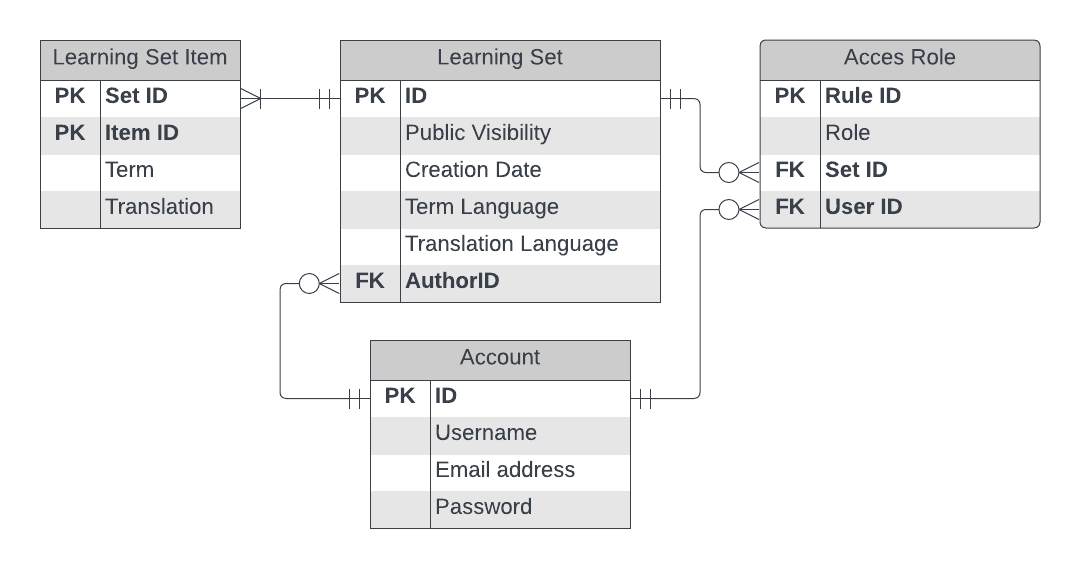
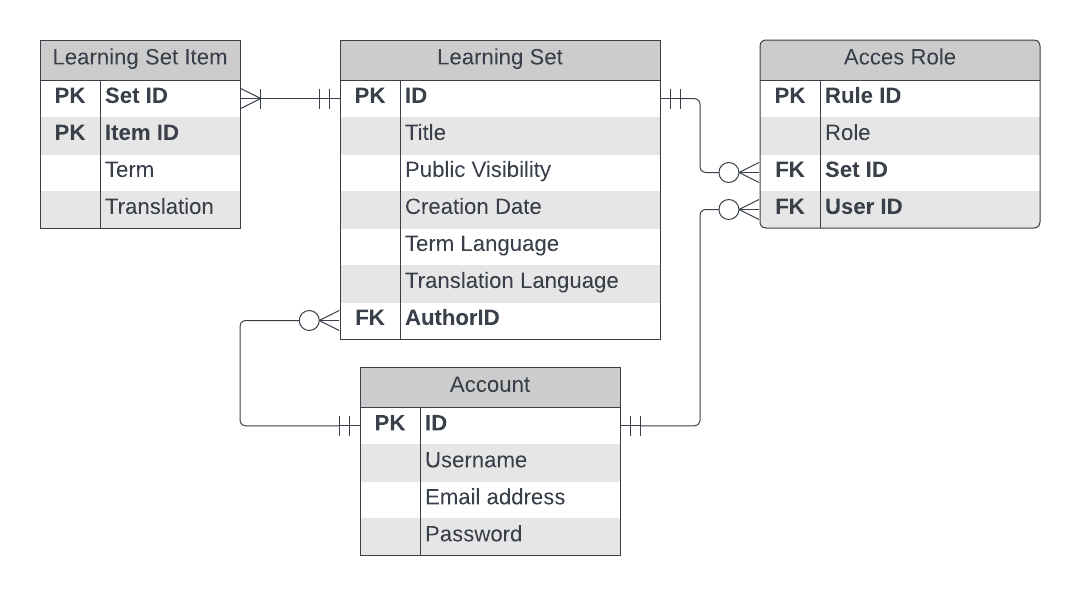
All CRUD operations for LearningSet

diff --git a/src/main/java/pl/lodz/p/it/wordapp/controller/LearningSetController.java b/src/main/java/pl/lodz/p/it/wordapp/controller/LearningSetController.java
@@ -3,9 +3,11 @@ package pl.lodz.p.it.wordapp.controller;
 import java.util.List;
 import lombok.RequiredArgsConstructor;
 import org.springframework.http.HttpStatus;
+import org.springframework.web.bind.annotation.DeleteMapping;
 import org.springframework.web.bind.annotation.GetMapping;
 import org.springframework.web.bind.annotation.PathVariable;
 import org.springframework.web.bind.annotation.PostMapping;
+import org.springframework.web.bind.annotation.PutMapping;
 import org.springframework.web.bind.annotation.RequestBody;
 import org.springframework.web.bind.annotation.RequestMapping;
 import org.springframework.web.bind.annotation.ResponseStatus;
@@ -38,6 +40,38 @@ public class LearningSetController {
     @PostMapping
     @ResponseStatus(HttpStatus.CREATED)
     public LearningSetDto create(@RequestBody LearningSetDto learningSetDto) {
-        return new LearningSetDto(repository.save(new LearningSet(learningSetDto)));
+        LearningSet ls = new LearningSet(learningSetDto);
+        // TODO set current user
+        return new LearningSetDto(repository.save(ls));
+    }
+
+    @DeleteMapping("/{id}")
+    @ResponseStatus(HttpStatus.NO_CONTENT)
+    public void remove(@PathVariable Long id) {
+        if (repository.existsById(id)) {
+            repository.deleteById(id);
+        } else {
+            throw new LearningSetNotFoundException(id);
+        }
+    }
+
+    @PutMapping("/{id}")
+    public LearningSetDto update(
+            @RequestBody LearningSetDto dto,
+            @PathVariable Long id) {
+
+        LearningSet updated = repository
+                .findById(id)
+                .map(ls -> {
+                    ls.setPubliclyVisible(dto.isPubliclyVisible());
+                    ls.setTitle(dto.getTitle());
+                    ls.setTermLanguage(dto.getTermLanguage());
+                    ls.setTranslationLanguage(dto.getTranslationLanguage());
+
+                    return repository.save(ls);
+                })
+                .orElseThrow(() -> new LearningSetNotFoundException(id));
+
+        return new LearningSetDto(updated);
     }
 }

diff --git a/src/main/java/pl/lodz/p/it/wordapp/model/LearningSet.java b/src/main/java/pl/lodz/p/it/wordapp/model/LearningSet.java
@@ -1,12 +1,16 @@
 package pl.lodz.p.it.wordapp.model;
 
+import javax.persistence.CascadeType;
 import javax.persistence.Column;
 import javax.persistence.Entity;
 import javax.persistence.GeneratedValue;
 import javax.persistence.GenerationType;
 import javax.persistence.Id;
+import javax.persistence.JoinColumn;
+import javax.persistence.OneToMany;
 import javax.persistence.Table;
 import java.time.LocalDateTime;
+import java.util.List;
 import com.fasterxml.jackson.annotation.JsonIgnore;
 import lombok.AllArgsConstructor;
 import lombok.Getter;
@@ -27,6 +31,9 @@ public class LearningSet {
     @Column(name = "ID", nullable = false)
     private Long id;
 
+    @Column(name = "TITLE", nullable = false)
+    private String title;
+
     @Column(name = "PUBLICLY_VISIBLE")
     private boolean publiclyVisible;
 
@@ -44,6 +51,11 @@ public class LearningSet {
     // @JoinColumn(name = "AUTHOR_ID", updatable = false, insertable = false)
     // private Account author;
 
+    @ToString.Exclude
+    @OneToMany(cascade = CascadeType.REMOVE)
+    @JoinColumn(name = "SET_ID", updatable = false, insertable = false)
+    private List<LearningSetItem> items;
+
     public LearningSet() {
         this.creationTime = LocalDateTime.now();
     }
@@ -52,6 +64,7 @@ public class LearningSet {
         this.publiclyVisible = learningSetDto.isPubliclyVisible();
         this.termLanguage = learningSetDto.getTermLanguage();
         this.translationLanguage = learningSetDto.getTranslationLanguage();
+        this.title = learningSetDto.getTitle();
         this.creationTime = LocalDateTime.now();
     }
 }

diff --git a/src/main/java/pl/lodz/p/it/wordapp/controller/dto/LearningSetDto.java b/src/main/java/pl/lodz/p/it/wordapp/controller/dto/LearningSetDto.java
@@ -1,22 +1,24 @@
 package pl.lodz.p.it.wordapp.controller.dto;
 
 import java.io.Serializable;
-import lombok.AllArgsConstructor;
 import lombok.Getter;
 import lombok.NoArgsConstructor;
 import pl.lodz.p.it.wordapp.model.LearningSet;
 
 @Getter
-@AllArgsConstructor
 @NoArgsConstructor
 public class LearningSetDto implements Serializable {
     private Long id;
+    private String title;
     private boolean publiclyVisible;
     private String termLanguage;
     private String translationLanguage;
 
     public LearningSetDto(LearningSet learningSet) {
-        this(learningSet.getId(), learningSet.isPubliclyVisible(),
-                learningSet.getTermLanguage(), learningSet.getTranslationLanguage());
+        this.id = learningSet.getId();
+        this.title = learningSet.getTitle();
+        this.publiclyVisible = learningSet.isPubliclyVisible();
+        this.termLanguage = learningSet.getTermLanguage();
+        this.translationLanguage = learningSet.getTranslationLanguage();
     }
 }
